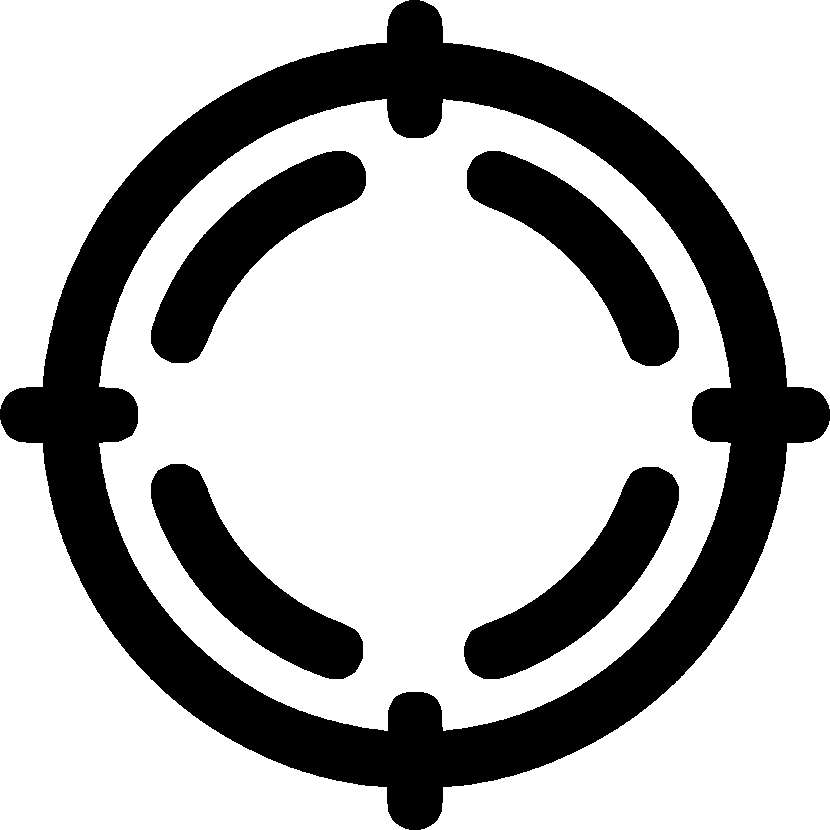
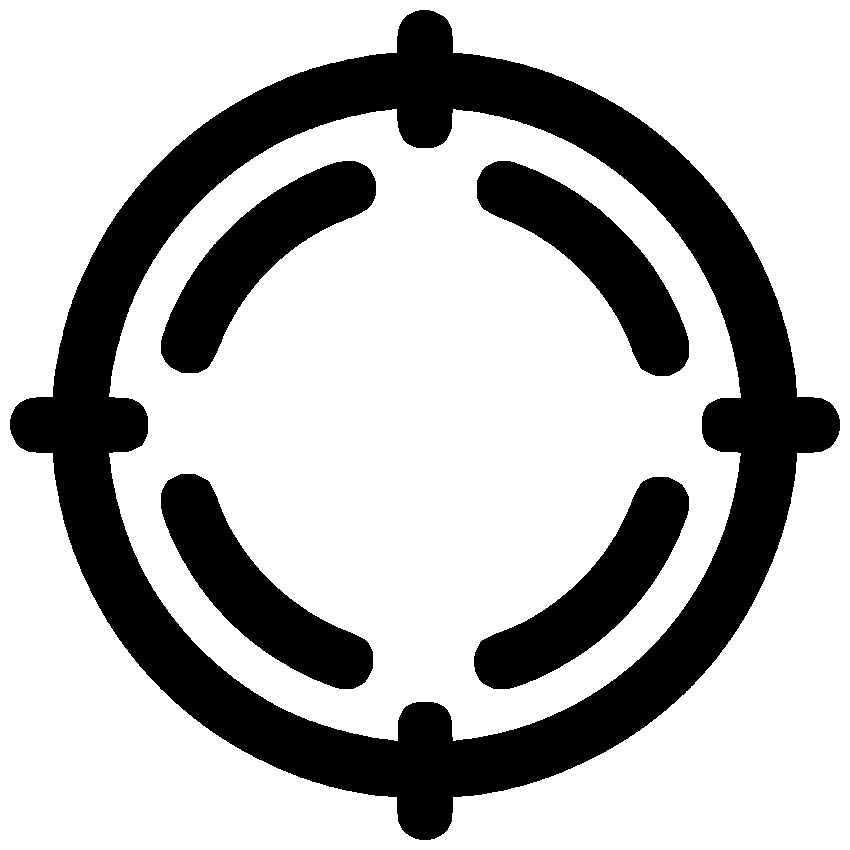
hit points token bugfix

diff --git a/frontend/src/features/room/HandleKeyDown.js b/frontend/src/features/room/HandleKeyDown.js
@@ -13,6 +13,8 @@ import {
     getStackByCardId,
     getCardWillpower,
     getCurrentFace,
+    processTokenType,
+    tokenPrintName,
 } from "./Helpers";
 import { get } from "https";
 
@@ -22,10 +24,10 @@ const keyTokenMap = {
   "2": ["progress",1],
   "3": ["damage",1],
   "4": ["time",1],
-  "5": ["threat",1],
-  "6": ["willpower",1],
-  "7": ["attack",1],
-  "8": ["defense",1],
+  "5": ["willpowerThreat",1],
+  "6": ["attack",1],
+  "7": ["defense",1],
+  "8": ["hitPoints",1],
 }
 
 export const HandleKeyDown = ({
@@ -256,7 +258,9 @@ export const HandleKeyDown = ({
             const groupType = gameUi.game.groupById[groupId].type;
             // Increment token 
             if (keyTokenMap[k] !== undefined && groupType === "play") {
-                const tokenType = keyTokenMap[k][0];
+                var tokenType = keyTokenMap[k][0];
+                tokenType = processTokenType(tokenType, activeCardFace.type);
+                const printName = tokenPrintName(tokenType);
                 // Check if mouse is hoving over top half or bottom half of card
                 // Top half will increase tokens, bottom half will decrease
                 const mousePosition = activeCardAndLoc.mousePosition;
@@ -269,15 +273,15 @@ export const HandleKeyDown = ({
                 gameBroadcast("update_value",{path: ["game","cardById",activeCard.id,"tokens",tokenType], value: newVal})
                 if (delta > 0) {
                     if (delta === 1) {
-                        chatBroadcast("game_update",{message: "added "+delta+" "+tokenType+" token to "+displayName+"."});
+                        chatBroadcast("game_update",{message: "added "+delta+" "+printName+" token to "+displayName+"."});
                     } else {
-                        chatBroadcast("game_update",{message: "added "+delta+" "+tokenType+" tokens to "+displayName+"."});
+                        chatBroadcast("game_update",{message: "added "+delta+" "+printName+" tokens to "+displayName+"."});
                     }
                 } else {
                     if (delta === -1) {
-                        chatBroadcast("game_update",{message: "removed "+(-delta)+" "+tokenType+" token from "+displayName+"."});
+                        chatBroadcast("game_update",{message: "removed "+(-delta)+" "+printName+" token from "+displayName+"."});
                     } else {
-                        chatBroadcast("game_update",{message: "removed "+(-delta)+" "+tokenType+" tokens from "+displayName+"."});
+                        chatBroadcast("game_update",{message: "removed "+(-delta)+" "+printName+" tokens from "+displayName+"."});
                     }                
                 }
             }

diff --git a/frontend/src/features/room/Helpers.js b/frontend/src/features/room/Helpers.js
@@ -69,6 +69,21 @@ export const getVisibleFaceSRC = (card, playerN) => {
   }
 }
 
+export const usesThreatToken = (cardType) => {
+  if (["Contract", "Hero", "Ally", "Attachment", "Event", "Objective Ally"].includes(cardType)) return false;
+  return true;
+} 
+
+export const processTokenType = (tokenType, cardType) => {
+  if (tokenType === "willpowerThreat") return usesThreatToken(cardType) ? "threat" : "willpower";
+  return tokenType;
+}
+
+export const tokenPrintName = (tokenType) => {
+  if (tokenType === "hitPoints") return "hit points";
+  return tokenType;
+}
+
 export const getCardWillpower = (card) => {
   const currentFace = getCurrentFace(card);
   return currentFace.willpower + card.tokens.willpower;

diff --git a/frontend/src/features/room/Token.js b/frontend/src/features/room/Token.js
@@ -1,6 +1,6 @@
 import React, { useState, useEffect } from "react";
 import { useSelector, useDispatch } from 'react-redux';
-import { CARDSCALE } from "./Constants";
+import { tokenPrintName } from "./Helpers";
 import { faChevronLeft, faChevronRight } from "@fortawesome/free-solid-svg-icons";
 import { FontAwesomeIcon } from "@fortawesome/react-fontawesome";
 //import cx from "classnames";
@@ -25,6 +25,7 @@ export const Token = React.memo(({
     const [buttonLeftVisible, setButtonLeftVisible] = useState(false);
     const [buttonRightVisible, setButtonRightVisible] = useState(false);
     const [amount, setAmount] = useState(tokenValue);
+    const printName = tokenPrintName(tokenType);
 
     useEffect(() => {    
         if (tokenValue !== amount) setAmount(tokenValue);
@@ -51,15 +52,15 @@ export const Token = React.memo(({
             //gameBroadcast("update_card", {card: newCard, group_id: groupId, stack_index: stackIndex, card_index:cardIndex});
             if (totalDelta > 0) {
                 if (totalDelta === 1) {
-                    chatBroadcast("game_update",{message: "added "+totalDelta+" "+tokenType+" token to "+cardName+"."});
+                    chatBroadcast("game_update",{message: "added "+totalDelta+" "+printName+" token to "+cardName+"."});
                 } else {
-                    chatBroadcast("game_update",{message: "added "+totalDelta+" "+tokenType+" tokens to "+cardName+"."});
+                    chatBroadcast("game_update",{message: "added "+totalDelta+" "+printName+" tokens to "+cardName+"."});
                 }
             } else if (totalDelta < 0) {
                 if (totalDelta === -1) {
-                    chatBroadcast("game_update",{message: "removed "+(-totalDelta)+" "+tokenType+" token from "+cardName+"."});
+                    chatBroadcast("game_update",{message: "removed "+(-totalDelta)+" "+printName+" token from "+cardName+"."});
                 } else {
-                    chatBroadcast("game_update",{message: "removed "+(-totalDelta)+" "+tokenType+" tokens from "+cardName+"."});
+                    chatBroadcast("game_update",{message: "removed "+(-totalDelta)+" "+printName+" tokens from "+cardName+"."});
                 }                
             }
         }, 500);

diff --git a/frontend/src/features/room/Target.js b/frontend/src/features/room/Target.js
@@ -18,18 +18,20 @@ export const Target = React.memo(({
     return (
         <div className="absolute"
             style={{
-                width: `${cardSize}vw`,
-                height: `${cardSize}vw`,
+                width: `${cardSize*1.4}vw`,
+                height: `${cardSize*1.4}vw`,
                 opacity: "60%",
                 left: "50%",
                 top: "50%",
                 transform: "translate(-50%, -50%)",
             }}
         >
-            <div className="absolute text-2xl font-black"
+            <div className="absolute text-4xl font-black"
                 style={{
                     left: "50%",
                     top: "50%",
+                    //color: "white",
+                    textShadow: "rgb(255, 255, 255) 2px 0px 0px, rgb(255, 255, 255) 1.75517px 0.958851px 0px, rgb(255, 255, 255) 1.0806px 1.68294px 0px, rgb(255, 255, 255) 0.141474px 1.99499px 0px, rgb(255, 255, 255) -0.832294px 1.81859px 0px, rgb(255, 255, 255) -1.60229px 1.19694px 0px, rgb(255, 255, 255) -1.97999px 0.28224px 0px, rgb(255, 255, 255) -1.87291px -0.701566px 0px, rgb(255, 255, 255) -1.30729px -1.51361px 0px, rgb(255, 255, 255) -0.421592px -1.95506px 0px, rgb(255, 255, 255) 0.567324px -1.91785px 0px, rgb(255, 255, 255) 1.41734px -1.41108px 0px, rgb(255, 255, 255) 1.92034px -0.558831px 0px",
                     transform: "translate(-50%, -50%)",
                 }}
             >

diff --git a/frontend/src/features/room/Tokens.js b/frontend/src/features/room/Tokens.js
@@ -1,5 +1,6 @@
 import React, {useContext} from "react";
 import { Token } from "./Token";
+import { usesThreatToken } from "./Helpers";
 import { useKeypress } from "../../contexts/KeypressContext";
 
 export const Tokens = React.memo(({ 
@@ -14,15 +15,13 @@ export const Tokens = React.memo(({
     console.log("rendering tokens");
     const keypress = useKeypress();
     const showButtons = isActive && keypress["Shift"];
-    var usesThreatToken = true;
-    if (["Contract", "Hero", "Ally", "Attachment", "Event", "Objective Ally"].includes(cardType)) usesThreatToken = false;
     return(
         <div style={{width:'100%', height:'100%'}}>
             <Token tokenType="resource"  cardId={cardId} cardName={cardName} zIndex={zIndex} left={"10%"} top={"0%"}  showButtons={showButtons} gameBroadcast={gameBroadcast} chatBroadcast={chatBroadcast}></Token>
             <Token tokenType="progress"  cardId={cardId} cardName={cardName} zIndex={zIndex} left={"10%"} top={"25%"} showButtons={showButtons} gameBroadcast={gameBroadcast} chatBroadcast={chatBroadcast}></Token>
             <Token tokenType="damage"    cardId={cardId} cardName={cardName} zIndex={zIndex} left={"10%"} top={"50%"} showButtons={showButtons} gameBroadcast={gameBroadcast} chatBroadcast={chatBroadcast}></Token>
             <Token tokenType="time"      cardId={cardId} cardName={cardName} zIndex={zIndex} left={"10%"} top={"75%"} showButtons={showButtons} gameBroadcast={gameBroadcast} chatBroadcast={chatBroadcast}></Token>
-            <Token tokenType={usesThreatToken ? "threat" : "willpower"} cardId={cardId} cardName={cardName} zIndex={zIndex} left={"55%"} top={"0%"}  showButtons={showButtons} gameBroadcast={gameBroadcast} chatBroadcast={chatBroadcast}></Token>
+            <Token tokenType={usesThreatToken(cardType) ? "threat" : "willpower"} cardId={cardId} cardName={cardName} zIndex={zIndex} left={"55%"} top={"0%"}  showButtons={showButtons} gameBroadcast={gameBroadcast} chatBroadcast={chatBroadcast}></Token>
             <Token tokenType="attack"    cardId={cardId} cardName={cardName} zIndex={zIndex} left={"55%"} top={"25%"} showButtons={showButtons} gameBroadcast={gameBroadcast} chatBroadcast={chatBroadcast}></Token>
             <Token tokenType="defense"   cardId={cardId} cardName={cardName} zIndex={zIndex} left={"55%"} top={"50%"} showButtons={showButtons} gameBroadcast={gameBroadcast} chatBroadcast={chatBroadcast}></Token>
             <Token tokenType="hitPoints" cardId={cardId} cardName={cardName} zIndex={zIndex} left={"55%"} top={"75%"} showButtons={showButtons} gameBroadcast={gameBroadcast} chatBroadcast={chatBroadcast}></Token>

diff --git a/frontend/src/features/room/MenuBar.js b/frontend/src/features/room/MenuBar.js
@@ -5,7 +5,6 @@ import useIsLoggedIn from "../../hooks/useIsLoggedIn";
 import { getCurrentFace } from "./Helpers";
 import { MenuBarUser } from "./MenuBarUser";
 import { MenuBarDataContainer } from "./MenuBarDataContainer";
-import { MenuBarTimer } from "./MenuBarTimer";
 import { GROUPSINFO, sectionToLoadGroupId, sectionToDiscardGroupId } from "./Constants";
 import store from "../../store";
 import { setGame } from "./gameUiSlice";
@@ -210,7 +209,6 @@ export const MenuBar = React.memo(({
           </ul>
         </li>
       </ul>
-      <MenuBarTimer gameBroadcast={gameBroadcast}></MenuBarTimer>
       <MenuBarDataContainer
         gameBroadcast={gameBroadcast}
         chatBroadcast={chatBroadcast}